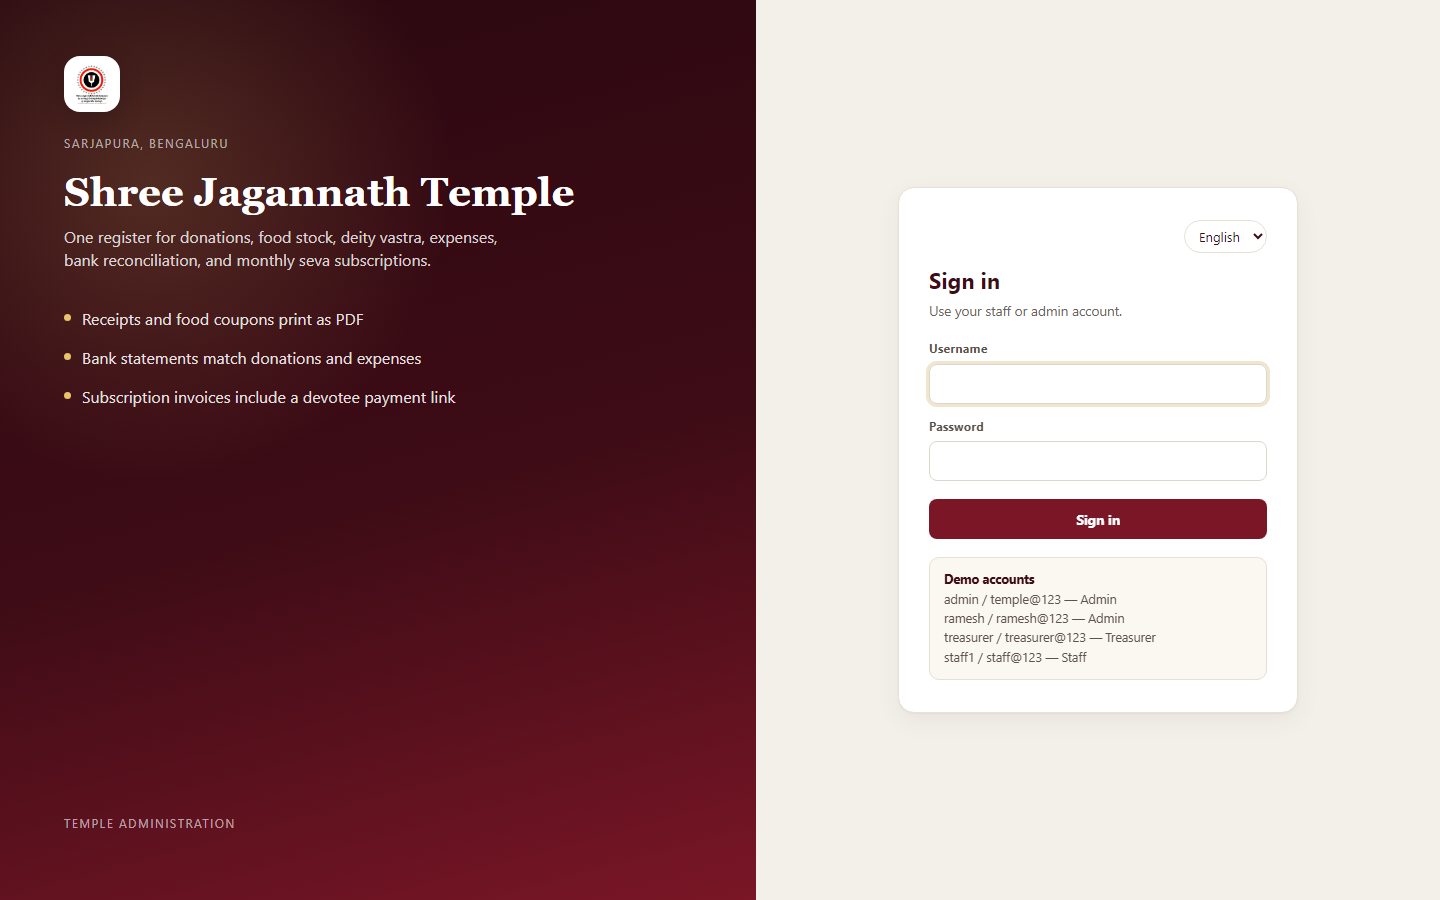
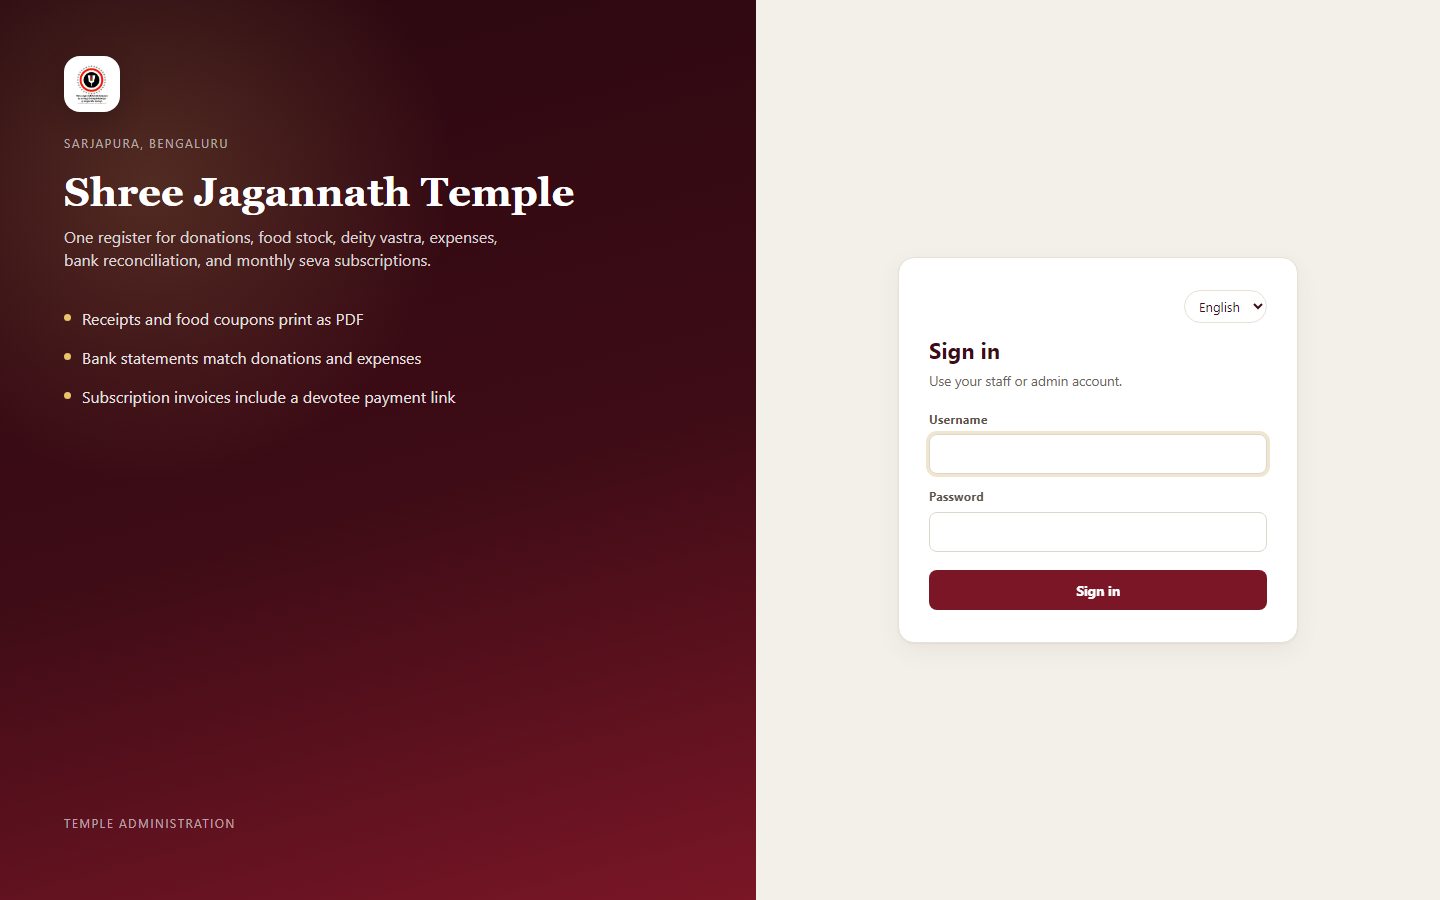
Change password Added

Changed region(s): [[0.625, 0.28, 0.9062, 0.7467], [0.8438, 0.3111, 0.875, 0.3422], [0.8438, 0.2489, 0.875, 0.28]]

diff --git a/php/static/css/style.css b/php/static/css/style.css
@@ -268,6 +268,8 @@ img { max-width: 100%; }
   border-radius: 999px;
 }
 .logout-link:hover { background: #F8EDEF; }
+.row-actions { display: flex; flex-wrap: wrap; gap: 6px; align-items: center; }
+.row-actions input[type="password"] { width: 9.5rem; min-height: 32px; padding: 4px 8px; }
 
 .content { padding: 24px 28px 40px; flex: 1; }
 

diff --git a/php/tests/password_test.php b/php/tests/password_test.php
@@ -1,0 +1,92 @@
+<?php
+declare(strict_types=1);
+
+require dirname(__DIR__) . '/includes/bootstrap.php';
+
+$failed = 0;
+
+function check(bool $ok, string $name): void
+{
+    global $failed;
+    if ($ok) {
+        echo "ok  {$name}\n";
+        return;
+    }
+    $failed++;
+    echo "FAIL {$name}\n";
+}
+
+check(password_rule_error('short', 'short') !== null, 'a password shorter than 6 characters is refused');
+check(password_rule_error('temple@123', 'temple@124') !== null, 'a confirmation that differs is refused');
+check(password_rule_error('temple@123', 'temple@123') === null, 'a matching password of 6 or more characters is accepted');
+check(account_access_error(4, 4, 'Staff', true, 2) !== null, 'a person cannot turn their own access off from the user list');
+check(account_access_error(1, 2, 'Admin', true, 1) !== null, 'the last active Admin cannot be deactivated');
+check(account_access_error(1, 2, 'Admin', true, 2) === null, 'an Admin can deactivate another Admin when one remains');
+check(account_access_error(1, 3, 'Staff', true, 2) === null, 'an Admin can deactivate a staff account');
+check(account_access_error(1, 3, 'Staff', false, 2) === null, 'an Admin can turn a deactivated account back on');
+
+$pdo = db();
+$pdo->beginTransaction();
+try {
+    $username = 'pw_' . bin2hex(random_bytes(4));
+    db_exec(
+        'INSERT INTO users (username, password_hash, full_name, role, is_active) VALUES (?,?,?,?,1)',
+        [$username, password_hash('staff@123', PASSWORD_DEFAULT), 'Password Test', 'Staff']
+    );
+    $staffId = (int) $pdo->lastInsertId();
+    $adminId = (int) db_value("SELECT id FROM users WHERE username = 'admin'");
+    $adminHashBefore = (string) db_value('SELECT password_hash FROM users WHERE id = ?', [$adminId]);
+
+    $wrong = change_own_password($staffId, 'not-the-password', 'newer@123', 'newer@123');
+    $stillOld = db_value('SELECT password_hash FROM users WHERE id = ?', [$staffId]);
+    check(
+        $wrong !== null && is_string($stillOld) && password_verify('staff@123', $stillOld),
+        'the wrong current password leaves the saved password unchanged'
+    );
+
+    $mismatch = change_own_password($staffId, 'staff@123', 'newer@123', 'other@123');
+    check($mismatch !== null && password_verify('staff@123', (string) db_value('SELECT password_hash FROM users WHERE id = ?', [$staffId])), 'a mismatched confirmation does not save');
+
+    $changed = change_own_password($staffId, 'staff@123', 'newer@123', 'newer@123');
+    $updated = db_value('SELECT password_hash FROM users WHERE id = ?', [$staffId]);
+    check(
+        $changed === null && is_string($updated) && password_verify('newer@123', $updated) && !password_verify('staff@123', $updated),
+        'staff, treasurer, and admin can replace their own password'
+    );
+
+    $staffAttempt = admin_set_user_password('Staff', $staffId, $adminId, 'taken@123', 'taken@123');
+    check(
+        $staffAttempt !== null && db_value('SELECT password_hash FROM users WHERE id = ?', [$adminId]) === $adminHashBefore,
+        'staff cannot set another person\'s password'
+    );
+
+    $selfAttempt = admin_set_user_password('Admin', $adminId, $adminId, 'self@123', 'self@123');
+    check(
+        $selfAttempt !== null && db_value('SELECT password_hash FROM users WHERE id = ?', [$adminId]) === $adminHashBefore,
+        'an Admin changes their own password from the password page'
+    );
+
+    $set = admin_set_user_password('Admin', $adminId, $staffId, 'reset@123', 'reset@123');
+    $reset = db_value('SELECT password_hash FROM users WHERE id = ?', [$staffId]);
+    check(
+        $set === null && is_string($reset) && password_verify('reset@123', $reset),
+        'an Admin can set another person\'s password without the old one'
+    );
+
+    db_exec('UPDATE users SET is_active = 0 WHERE id = ?', [$staffId]);
+    $inactive = db_one('SELECT id FROM users WHERE username = ? AND is_active = 1', [$username]);
+    check($inactive === null, 'a deactivated account cannot sign in');
+} finally {
+    if ($pdo->inTransaction()) {
+        $pdo->rollBack();
+    }
+}
+
+$adminStill = db_value("SELECT password_hash FROM users WHERE username = 'admin'");
+check(is_string($adminStill) && $adminStill === $adminHashBefore, 'the live admin password is unchanged after the test');
+
+if ($failed > 0) {
+    fwrite(STDERR, "{$failed} failed\n");
+    exit(1);
+}
+echo "all password tests passed\n";

diff --git a/php/includes/actions.php b/php/includes/actions.php
@@ -231,6 +231,14 @@ function dispatch_request(): void
         action_demo();
         return;
     }
+    if ($path === 'account/password') {
+        action_account_password($method);
+        return;
+    }
+    if (preg_match('#^users/(\d+)/password$#', $path, $m) === 1 && $method === 'POST') {
+        action_set_user_password((int) $m[1]);
+        return;
+    }
     if ($path === 'users') {
         action_users($method);
         return;
@@ -2742,26 +2750,67 @@ function action_users(string $method): void
     ]);
 }
 
+function action_account_password(string $method): void
+{
+    login_required();
+    if ($method === 'POST') {
+        $error = change_own_password(
+            (int) ($_SESSION['user_id'] ?? 0),
+            (string) ($_POST['current_password'] ?? ''),
+            (string) ($_POST['new_password'] ?? ''),
+            (string) ($_POST['confirm_password'] ?? '')
+        );
+        flash($error !== null ? 'error' : 'success', $error ?? 'Your password was updated.');
+        redirect(url('account/password'));
+    }
+    render('password', [
+        'title' => t('page.password'),
+        'pageTitle' => t('page.password'),
+        'active' => 'password',
+    ]);
+}
+
+function action_set_user_password(int $userId): void
+{
+    admin_required();
+    $error = admin_set_user_password(
+        (string) ($_SESSION['role'] ?? ''),
+        (int) ($_SESSION['user_id'] ?? 0),
+        $userId,
+        (string) ($_POST['new_password'] ?? ''),
+        (string) ($_POST['confirm_password'] ?? '')
+    );
+    if ($error === null) {
+        $name = db_value('SELECT username FROM users WHERE id = ?', [$userId]);
+        flash('success', 'Password updated for ' . (is_string($name) ? $name : 'that account') . '.');
+    } else {
+        flash('error', $error);
+    }
+    redirect(url('users'));
+}
+
 function action_toggle_user(int $userId): void
 {
     admin_required();
-    if ($userId === (int) ($_SESSION['user_id'] ?? 0)) {
-        flash('error', 'You cannot change your own account from this screen.');
-        redirect(url('users'));
-    }
     $user = db_one('SELECT * FROM users WHERE id = ?', [$userId]);
     if ($user === null) {
         redirect(url('users'));
     }
     $currentlyActive = (int) $user['is_active'] === 1;
-    if ($currentlyActive && $user['role'] === 'Admin') {
-        $admins = (int) db_value("SELECT COUNT(*) FROM users WHERE role = 'Admin' AND is_active = 1");
-        if ($admins <= 1) {
-            flash('error', 'Cannot deactivate the last active Admin.');
-            redirect(url('users'));
-        }
+    $activeAdmins = (int) db_value("SELECT COUNT(*) FROM users WHERE role = 'Admin' AND is_active = 1");
+    $error = account_access_error(
+        (int) ($_SESSION['user_id'] ?? 0),
+        $userId,
+        (string) $user['role'],
+        $currentlyActive,
+        $activeAdmins
+    );
+    if ($error !== null) {
+        flash('error', $error);
+        redirect(url('users'));
     }
     db_exec('UPDATE users SET is_active = ? WHERE id = ?', [$currentlyActive ? 0 : 1, $userId]);
+    flash('success', $currentlyActive ? 'Account access turned off.' : 'Account access turned on.');
     redirect(url('users'));
 }
 

diff --git a/php/views/users.php b/php/views/users.php
@@ -32,9 +32,11 @@
 </div>
 <div class="panel">
   <h3><?= e(t('ui.all_users')) ?></h3>
+  <p class="sub"><?= e(t('password.own_hint')) ?></p>
   <table class="data-table">
-    <tr><th><?= e(t('common.name')) ?></th><th><?= e(t('login.username')) ?></th><th><?= e(t('common.role')) ?></th><th><?= e(t('common.status')) ?></th><th><?= e(t('ui.created')) ?></th><th></th></tr>
+    <tr><th><?= e(t('common.name')) ?></th><th><?= e(t('login.username')) ?></th><th><?= e(t('common.role')) ?></th><th><?= e(t('common.status')) ?></th><th><?= e(t('ui.created')) ?></th><th><?= e(t('password.set')) ?></th><th><?= e(t('ui.access')) ?></th></tr>
     <?php foreach ($users as $u): ?>
+    <?php $isSelf = (int) $u['id'] === (int) ($currentUser['id'] ?? 0); ?>
     <tr>
       <td><?= e($u['full_name']) ?></td>
       <td><?= e($u['username']) ?></td>
@@ -42,7 +44,19 @@
       <td><?php if ((int) $u['is_active'] === 1): ?><span class="badge badge-green"><?= e(t('status.active')) ?></span><?php else: ?><span class="badge badge-grey"><?= e(t('status.inactive')) ?></span><?php endif; ?></td>
       <td><?= e($u['created_at']) ?></td>
       <td>
-        <?php if ((int) $u['id'] !== (int) ($currentUser['id'] ?? 0)): ?>
+        <?php if ($isSelf): ?>
+        <a class="btn btn-sm btn-outline" href="<?= e(url('account/password')) ?>"><?= e(t('page.password')) ?></a>
+        <?php else: ?>
+        <form class="row-actions" method="POST" action="<?= e(url('users/' . $u['id'] . '/password')) ?>">
+          <?= csrf_field() ?>
+          <input type="password" name="new_password" required minlength="6" maxlength="200" autocomplete="new-password" placeholder="<?= e(t('password.new')) ?>" aria-label="<?= e(t('password.new')) ?>">
+          <input type="password" name="confirm_password" required minlength="6" maxlength="200" autocomplete="new-password" placeholder="<?= e(t('password.confirm')) ?>" aria-label="<?= e(t('password.confirm')) ?>">
+          <button class="btn btn-sm btn-primary" type="submit"><?= e(t('password.set')) ?></button>
+        </form>
+        <?php endif; ?>
+      </td>
+      <td>
+        <?php if (!$isSelf): ?>
         <form method="POST" action="<?= e(url('users/' . $u['id'] . '/toggle')) ?>">
           <?= csrf_field() ?>
           <button class="btn btn-sm <?= (int) $u['is_active'] === 1 ? 'btn-danger' : 'btn-outline' ?>" type="submit">

diff --git a/php/includes/accounts.php b/php/includes/accounts.php
@@ -1,0 +1,61 @@
+<?php
+declare(strict_types=1);
+
+function password_rule_error(string $password, string $confirm): ?string
+{
+    if (strlen($password) < 6 || strlen($password) > 200) {
+        return 'Use a password of 6 to 200 characters.';
+    }
+    if (!hash_equals($password, $confirm)) {
+        return 'The new password and the confirmation do not match.';
+    }
+    return null;
+}
+
+function change_own_password(int $userId, string $current, string $newPassword, string $confirm): ?string
+{
+    $rule = password_rule_error($newPassword, $confirm);
+    if ($rule !== null) {
+        return $rule;
+    }
+    $user = db_one('SELECT id, password_hash, is_active FROM users WHERE id = ?', [$userId]);
+    if ($user === null || (int) $user['is_active'] !== 1) {
+        return 'That account cannot be changed.';
+    }
+    if (!password_verify($current, (string) $user['password_hash'])) {
+        return 'The current password is not correct.';
+    }
+    db_exec('UPDATE users SET password_hash = ? WHERE id = ?', [password_hash($newPassword, PASSWORD_DEFAULT), $userId]);
+    return null;
+}
+
+function admin_set_user_password(string $actorRole, int $actorId, int $targetId, string $newPassword, string $confirm): ?string
+{
+    if ($actorRole !== 'Admin') {
+        return 'Only an Admin can set another person\'s password.';
+    }
+    if ($actorId === $targetId) {
+        return 'Change your own password from the password page. That page asks for your current password.';
+    }
+    $rule = password_rule_error($newPassword, $confirm);
+    if ($rule !== null) {
+        return $rule;
+    }
+    $user = db_one('SELECT id FROM users WHERE id = ?', [$targetId]);
+    if ($user === null) {
+        return 'That account was not found.';
+    }
+    db_exec('UPDATE users SET password_hash = ? WHERE id = ?', [password_hash($newPassword, PASSWORD_DEFAULT), $targetId]);
+    return null;
+}
+
+function account_access_error(int $actorId, int $targetId, string $role, bool $active, int $activeAdmins): ?string
+{
+    if ($actorId === $targetId) {
+        return 'You cannot change your own access from this screen.';
+    }
+    if ($active && $role === 'Admin' && $activeAdmins <= 1) {
+        return 'Cannot deactivate the last active Admin.';
+    }
+    return null;
+}

diff --git a/php/views/password.php b/php/views/password.php
@@ -1,0 +1,22 @@
+<div class="panel">
+  <h3><?= e(t('page.password')) ?></h3>
+  <p class="sub"><?= e(t('password.intro')) ?></p>
+  <form method="POST" action="<?= e(url('account/password')) ?>">
+    <?= csrf_field() ?>
+    <div class="form-grid">
+      <div class="form-group">
+        <label for="current_password"><?= e(t('password.current')) ?></label>
+        <input id="current_password" type="password" name="current_password" required autocomplete="current-password">
+      </div>
+      <div class="form-group">
+        <label for="new_password"><?= e(t('password.new')) ?></label>
+        <input id="new_password" type="password" name="new_password" required minlength="6" maxlength="200" autocomplete="new-password">
+      </div>
+      <div class="form-group">
+        <label for="confirm_password"><?= e(t('password.confirm')) ?></label>
+        <input id="confirm_password" type="password" name="confirm_password" required minlength="6" maxlength="200" autocomplete="new-password">
+      </div>
+    </div>
+    <div class="form-actions"><button class="btn btn-primary" type="submit"><?= e(t('password.save')) ?></button></div>
+  </form>
+</div>

diff --git a/php/install.php b/php/install.php
@@ -65,7 +65,7 @@ if (($_SERVER['REQUEST_METHOD'] ?? 'GET') === 'POST' && $ready) {
     <div class="ok">
       <p><strong><?= e(DB_NAME) ?></strong> on <?= e(DB_HOST) ?> has <?= e((string) $result['tables']) ?> tables and <?= e((string) $result['users']) ?> users.</p>
       <p><?= $result['seeded']
-            ? 'Demo data was loaded for devotees, donations, stock, expenses, books, coupons, and the other tables. Sign in as admin / temple@123, ramesh / ramesh@123, staff1 / staff@123, or treasurer / treasurer@123.'
+            ? 'Demo data was loaded for devotees, donations, stock, expenses, books, coupons, and the other tables.'
             : 'Demo data was left unchanged because devotees are already in the database.' ?></p>
       <p>Sign in at <a href="index.php">index.php</a>. Then delete <code>INSTALL_TOKEN</code> from the .env file so this page cannot be used again.</p>
     </div>

diff --git a/php/views/login.php b/php/views/login.php
@@ -56,13 +56,6 @@ $returnTo = (string) ($_SERVER['REQUEST_URI'] ?? '');
           </div>
           <button class="btn btn-primary" type="submit"><?= e(t('login.submit')) ?></button>
         </form>
-        <div class="demo-creds">
-          <strong><?= e(t('login.demo')) ?></strong><br>
-          admin / temple@123 — <?= e(t_fixed('role', 'Admin')) ?><br>
-          ramesh / ramesh@123 — <?= e(t_fixed('role', 'Admin')) ?><br>
-          treasurer / treasurer@123 — <?= e(t_fixed('role', 'Treasurer')) ?><br>
-          staff1 / staff@123 — <?= e(t_fixed('role', 'Staff')) ?>
-        </div>
       </div>
     </section>
   </div>

diff --git a/php/views/layout.php b/php/views/layout.php
@@ -117,6 +117,7 @@ $returnTo = (string) ($_SERVER['REQUEST_URI'] ?? '');
               <?php endforeach; ?>
             </select>
           </form>
+          <a class="logout-link" href="<?= e(url('account/password')) ?>"><?= e(t('nav.password')) ?></a>
           <a class="logout-link" href="<?= e(url('logout')) ?>"><?= e(t('shell.sign_out')) ?></a>
         </div>
       </div>

diff --git a/php/includes/bootstrap.php b/php/includes/bootstrap.php
@@ -25,6 +25,7 @@ require APP_ROOT . '/includes/settings.php';
 require APP_ROOT . '/includes/brand_mark.php';
 require APP_ROOT . '/includes/selections.php';
 require APP_ROOT . '/includes/suggest.php';
+require APP_ROOT . '/includes/accounts.php';
 require APP_ROOT . '/includes/actions.php';
 
 date_default_timezone_set(TIMEZONE);

diff --git a/docs/USER-GUIDE.md b/docs/USER-GUIDE.md
@@ -10,17 +10,6 @@ Open the app and sign in with the username and password an Admin gave you. The l
 
 ![Sign-in screen, with the temple name on the left and the sign-in card on the right](images/01-sign-in.png)
 
-Sample accounts, for a demonstration register only:
-
-| Username | Password | Role |
-| --- | --- | --- |
-| admin | temple@123 | Admin |
-| ramesh | ramesh@123 | Admin |
-| treasurer | treasurer@123 | Treasurer |
-| staff1 | staff@123 | Staff |
-
-On a live temple, replace these passwords and do not leave the sample list on the sign-in page.
-
 ## The three roles
 
 Everyone who is signed in can open the temple registers and the books. The difference is who may decide, and who may change the temple itself.
